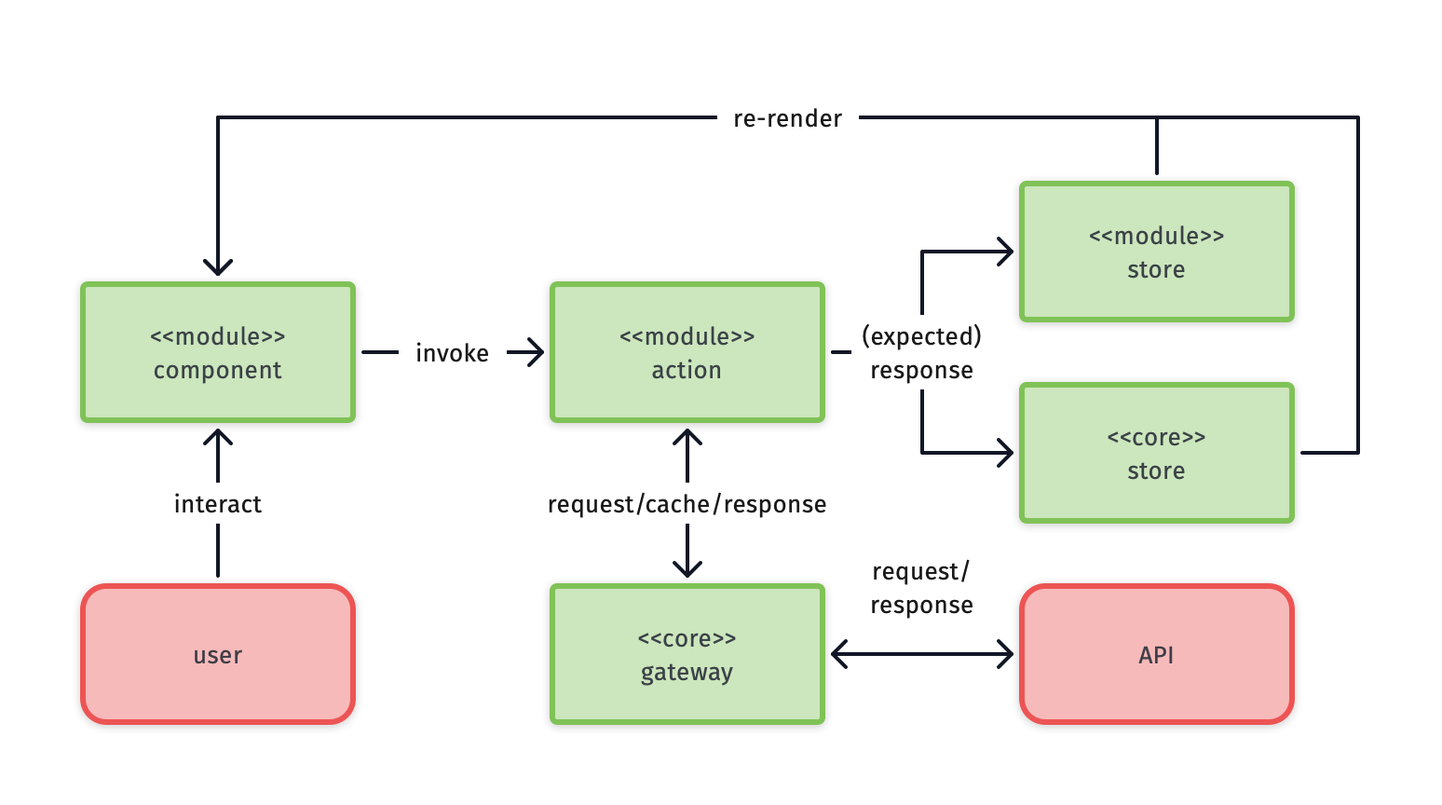
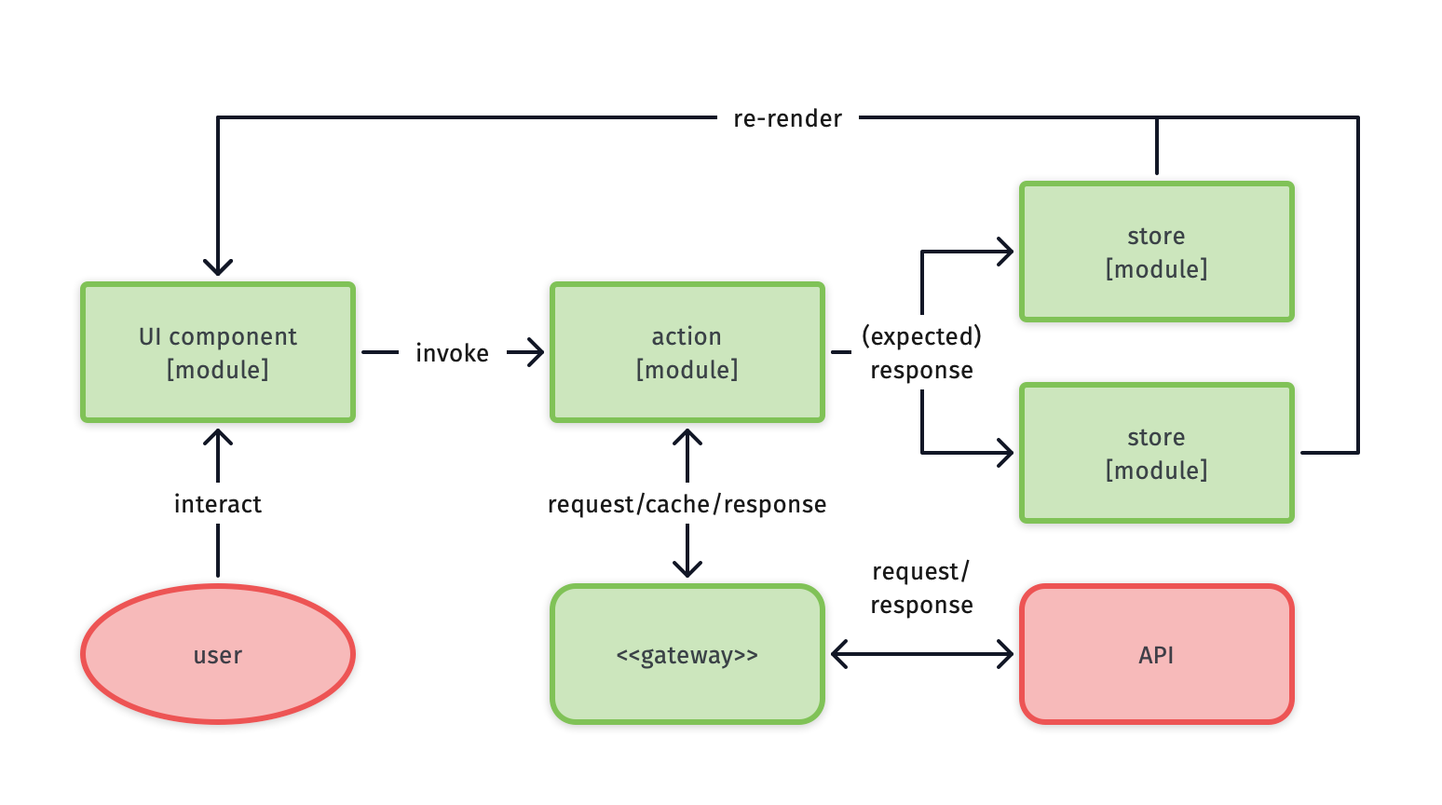
updated the reference architecture to V2.0.0

diff --git a/README.md b/README.md
@@ -1,8 +1,8 @@
 # Front-end reference architecture
 
-##### _version 1.0.0_
+##### _version 2.0.0_
 
-**Author(s)**: Kevin Pennekamp | front-end architect | [kevtiq.dev](https://kevtiq.dev) | <hello@kevtiq.dev>
+**Author(s)**: Kevin Pennekamp | front-end architect | [vycke.dev](https://vycke.dev) | <hello@vycke.dev>
 
 This document describes a reactive reference architecture for front-end applications (e.g. single-page applications) on a digital enterprise scale. It offers framework-agnostic best practices focused on the architecture behind the user interface.
 
@@ -10,84 +10,87 @@ This document describes a reactive reference architecture for front-end applicat
 
 The goal of the architecture is to enable engineers to create large-scale applications. These applications have many users, external connections, and long development time. To achieve control over the business outcomes, it requires an [antifragile](https://www.sciencedirect.com/science/article/pii/S1877050916302290) architecture. There are three key principles:
 
-- **Resilience**, to ensure stable user experience that can be measured, by applying safeguards in the application's core.
+- **Resilience**, to ensure a stable and measurable user experience.
 - A **reactive** application that updates based on (user interaction).
-- **Composability** in core elements and user interface components to enable development _agility_, resulting in a _scalable_ and _maintainable_ solution with a _consistent_ user experience.
+- **Composability** that enable development _agility_, resulting in a _scalable_ and _maintainable_ solution with a _consistent_ user experience.
 
-The architecture goes three levels deeps. The legend below describes the meaning of the different visualizations in this document.
+The architecture uses the [C4 architecture](https://c4model.com) notation. The legend below describes the meaning of the different visualizations in this document.
 
-![](images/architecture-legend.png)
+/images/c4-architecture-legend.png
 
-## High-level overview
+## System context and container overview
 
-The main idea behind the reference architecture is to implement [domain driven development](https://martinfowler.com/bliki/BoundedContext.html). A [layered architecture](https://en.wikipedia.org/wiki/Multitier_architecture) facilitates this by introducing three layers:
+The main idea behind the reference architecture is to implement [domain driven development](https://martinfowler.com/bliki/BoundedContext.html). A [layered architecture](https://en.wikipedia.org/wiki/Multitier_architecture) facilitates this by introducing three containers:
 
 - The **router** is part of the presentation layer. This layer determines which modules the user can interact with.
-- The **modules** layer represents the presentation layer, but also the business layer. Most of the work will be in this layer. A module, or [cell](https://github.com/wso2/reference-architecture/blob/master/reference-architecture-cell-based.md), represents a part of the business.
+- Each application consists out of many **module** (or [cell](https://github.com/wso2/reference-architecture/blob/master/reference-architecture-cell-based.md)) containers. These represent the presentation layer, but also the business layer. Most of the work will be in these containers. A module represents a part of the business.
 - The **core** layer represents the application and data access layer.
 
-![](images/architecture-high-level.png)
+/images/c4-architecture-level-2.png
 
-## Application core
+## The core container
 
-The core layer centralizes critical _blocks_, as visualized below. This centralization contributes to resilience of the application. The blocks below can be present in the core layer.
+The core container centralizes critical _components_, as visualized below. This centralization contributes to the resilience of the application. Combined, there are three important component _groups_ that can be identified in the core container: a **store**, **pub/sub**, and **gateway**.
 
-- An application **store** that holds data impacting how the application behaves towards users.i
-- A **gateway** handling all outgoing communication towards many external sources.
-- The **[pub/sub](https://en.wikipedia.org/wiki/Publish%E2%80%93subscribe_pattern)** synchronizes other elements in the core layer. The presentation layer can use to update. Besides, it allows for cross-browser tab synchronization.
-- A **process manager** mediates and prioritizes heavy background operations (i.e. web-workers) to increase the performance of the web application.
+/images/c4-architecture-level-3-core.png
 
-![](images/architecture-core.png)
+Besides these components, several other components can live in the core container. Examples are the browser **history** stack, an **error tracker** or a **process manager** mediates and prioritizes heavy background operations (i.e. web-workers) to increase the performance of the web application.
 
-Besides these blocks, several other blocks can live in the core layer. Examples are the browser **history** stack and an **error tracker**.
-
-### Application store
+### Core container: store
 
 Large applications use the store for global state management. The recommendation is that the store follows the patterns around [event sourcing](https://martinfowler.com/eaaDev/EventSourcing.html). This means that the store should be:
 
 - It stores data in a **centralized** and normalizes the data, i.e. nesting of relational data is not allowed.
 - It is the owner of the data shape and mutations to increase resilience, i.e. it is **event-driven** and **immutable**.
 
-To follow the principles of this architecture, it uses an **access layer**. This _element_ decouples the state interface, allowing for better composability. Store events (`get`, `set`, `update`, or `remove`) can be defined and invoked on a module-level. The access layer handles these events and applies them to the **data storage**.
+To follow the principles of this architecture, it uses an **access layer**. This _component_ decouples the state interface, allowing for better composability. Store events (`get`, `set`, `update`, or `remove`) can be defined and invoked on a module-level. The access layer handles these events and applies them to the **data storage**, as visualized in the _dynamic diagram_ shown below.
 
-![](images/architecture-core-store.png)
+/images/c4-architecture-dynamic-diagram-store.png
 
 > **NOTE**: many front-end applications use global state management for all data. Many existing global state management packages like [Redux](https://redux.js.org/style-guide/style-guide) have a coupled state interface. Although events are defined elsewhere, they have to be configured in the store.
 
-Whenever an element triggers an event, the data is changed. The access layer sends an event (including the changed data) via the pub/sub (except in case of a `get` event). Other elements can subscribe to these events and act whenever the data changes. Normalized data allows for more accurate updates events to the user subscribers.
+Whenever a component triggers an event, the data is changed. The access layer sends an event (including the changed data) via the pub/sub (except in case of a `get` event). Other components can subscribe to these events and act whenever the data changes. The access layer can also subscribe to the pub/sub. This enables another way for the store to update (e.g. when requests come from a different browser tab).
 
-### API gateway
+Data in the data storage is normalized or shaped like a [Statecharts](https://statecharts.github.io/). This allows for more accurate update events to the subscribers.
+
+### Core container: pub/sub
+The [pub/sub](https://en.wikipedia.org/wiki/Publish%E2%80%93subscribe_pattern) adds the ability to synchronize other containers/components on asynchronous tasks. It can update the presentation layer (e.g. UI components in modules) based on updates in the _store_. Another example is to use it for background tasks like synchronization between browser tabs, or resetting an auto-sign out timer.
+
+### Core container: API gateway
 
 > **NOTE**: in case of only one external source, a single API client can replace the gateway. Many open-source API clients support a similar structure (e.g. [Apollo Client](https://www.apollographql.com/client/)).
 
-The API gateway enables a consistent way to connect various external sources (e.g. REST and GraphQL). A [**mediator**](https://en.wikipedia.org/wiki/Mediator_pattern) allows for sharing of generic elements with different **clients**.
+The API gateway enables a consistent way to connect various external sources or APIs (e.g. REST and GraphQL). The *gateway*, *middleware*, and *client* components act as the API gateway. Each external source has its own corresponding **client** component. This component sends out the actual request. Each client has a chain of **middleware**, that enhances each request (e.g. add authentication information).
 
-![](images/architecture-core-gateway.png)
+/images/c4-architecture-dynamic-diagram-gateway.png
 
-Each request, regardless of the related external source, goes through the mediator. The mediator sends each request through three _elements_ before it hits the API client:
+Each request, regardless of the related external source, first goes through the gateway. The gateway is a [**mediator**](https://en.wikipedia.org/wiki/Mediator_pattern) allows for the sharing of generic logic between different clients of different external sources. This mediator handles:
 
-- The **cache** is a proxy that stores all responses, for a certain period ('state-while-revalidate' pattern). The mediator acts as the _data access layer_ of the cache, as the application store.
-- A [**circuit breaker**](https://en.wikipedia.org/wiki/Circuit_breaker_design_pattern) maintains the state of the external source. If it receives a server error, it bounces outgoing requests to prevent reoccurring failure. It can be seen as a first link in the chain of middleware.
-- A chain of **middleware** enhances each request (e.g. the refreshing of authentication information). The middleware has access to the application store and the pub/sub.
+- Bouncing requests based on [RBAC rules](#application-governance).
+- Interact with a cache, by getting and setting data. In most cases, this is the application store, but sometimes a separate proxy cache is used. The gateway sets the lifespan of the cached data, using 'state-while-revalidate' pattern.
+- [**circuit breaking**](https://en.wikipedia.org/wiki/Circuit_breaker_design_pattern) to ensure only external APIs are called when they are available. If it receives a server error, it bounces future outgoing requests for a limited time, allowing the API to restart itself.
+- Implement logic for authentication information refreshing. If a refresh request is in flight, it queues all other requests until the refresh request is finished.
+- Send requests to the correct middleware and client.
 
-The mediator sends the request to the correct client after the middleware. With a `cache-network` strategy, a cached value is provided first. When the mediator receives the response, it sends it to the request initiator and the cache.
+If a request has a `cache-network` strategy, a cached value from the store is provided first. When the gateway receives the response, it sends the updated data to the request initiator and the cache.
 
 > **NOTE**: in case your chosen UI framework does not allow of UI updates around asynchronous calls, you can let the element subscribe to the pub/sub and have the mediator send the response via the pub/sub. you can use the pub/sub.
 
-To ensure resilience, each request should follow the same [statechart](https://statecharts.github.io/), as shown below. When all requests, regardless of their source, follow the same pattern, the API client and/or UI can consistently handle them. Each request starts in _idle_. A request can either start or be scheduled. Both from _idle_ and _scheduled_ the request can start. It now moves into the _loading_ state. From this state, four events can happen: success, abort, error, or start. In the latter's case, the previous request is aborted, and a new request is started.
+To ensure resilience, each request should follow the same [statechart](https://statecharts.github.io/), as shown below. When all requests, regardless of their source, follow the same pattern, the API client and/or UI can handle them. Each request starts in _idle_. A request can either start or be scheduled. Both from _idle_ and _scheduled_ the request can start. It now moves into the _loading_ state. From this state, four events can happen: success, abort, error, or start. In the latter's case, the previous request is aborted, and a new request is started.
 
-![](images/architecture-core-gateway-statechart.png)
+/images/gateway-statechart.png
 
-## Modules
+## Module containers
 
-Modules facilitate the concept of [domain driven development](https://martinfowler.com/bliki/BoundedContext.html). They implement the [flux pattern](https://facebook.github.io/flux/docs/in-depth-overview/) to arrange business-related logic, state, and UI components. It includes several _blocks_, as visualized below. Each module has **components** and **actions**. They represent the view and the logic of a (business-related) module. Both can interact with the application core. Components can read from the core, while actions can invoke events in the core and wait for a response.
-![](images/architecture-module.png)
+Modules represent the concept of [domain driven development](https://martinfowler.com/bliki/BoundedContext.html). They implement the [flux pattern](https://facebook.github.io/flux/docs/in-depth-overview/) to arrange business-related logic, state, and UI components. It includes several _components_, as visualized below. Each module has **UI components** and **actions**. They represent the view and the logic of a (business-related) module. Both can interact with the application core. UI components can read from the core, while actions can invoke events in the core and wait for a response.
 
-A module can also have a store. It acts similar to the application store. The store in a module is often used for modeling business logic. It is recommended to follow the described [UI performance principles](#ui-performance-principles).
+/images/c4-architecture-level-3-module.png
 
-> **NOTE**: the store can be implemented in the same way as the application store, or use features from a framework (e.g. React Context).
+A module can also have a store. It acts the same as the application store. The store in a module is often used for modeling business logic. It is recommended to follow the described [UI performance principles](#ui-performance-principles).
 
-Components, actions, and a store are common for most modules. But some modules need other blocks.
+> **NOTE**: the store can be implemented in the same way as the store in the core container, or use features from a framework (e.g. React Context).
+
+UI components, actions, and a store are common for most modules. But some modules need other _components_.
 
 - A gateway or section module requires a **router**. It determines which **page** or module the user can interact with.
 - A route always associates with a module or a **page**. A page is a specialized component.
@@ -104,48 +107,48 @@ There are three different modules identified in this reference architecture. Nes
 
 ### User interface components
 
-User interface (UI) components are the most important parts of the application. It requires the most development time. It is where the user sees and interacts with the application. There are three different different types of components.
+User interface (UI) components are the most important parts of the application. It requires the most development time. It is where the user sees and interacts with the application. There are three different component types.
 
-- **Layout** components are used for positioning of content (e.g. a Stack component) and are generally stylingless by default (e.g. no background color). As no business logic is present in these components, they live outside of the modules (e.g. inside a design system).
-- **Interaction** components are generic components that allow the user to interact with the application (buttons, links, form elements, etc.). Similar to layout components they are stylingless by default, exist outside of the modules (e.g. inside a design system).
-- **Content** components hold the user interface around business logic. These components live within the modules and use layout components internally. The consist of five different elements that interact with each other.
+- **Layout** components are used for positioning of content (e.g. a Stack component) and are (generally) without styling by default (e.g. no background color). As no business logic is present in these components, they live outside of the modules (e.g. inside a design system).
+- **Interaction** components are generic components that allow the user to interact with the application (buttons, links, form elements, etc.). Similar to layout components they are without styling by default, exist outside of the modules (e.g. inside a design system).
+- **Content** components hold the user interface around the business logic. These components live within the modules and use layout components. They comprise out of five different elements that interact with each other.
 
-![](images/architecture-component.png)
+/images/c4-architecture-level-4-component.png
 
 The API is how a component interacts with its parent, another UI component. The parent component can provide values, configuration, and callbacks through the API. The values and configuration are, combined with the component state, used to render the UI.
 
 A user interacts with the UI. This interaction invokes an action. A component can use an action from the module or define the action itself. The action can update the component state or invoke a callback received through the API. The observer of a component listens to the values from the API and the state for changes. When a change happens, it invokes a re-render of the UI and invokes an action.
 
-> **NOTE**: modern UI frameworks like React and Vue handle the described observer internally. React handles re-renders of the UI, while the lifecycles methods (e.g. `useEffect`) handle invoking actions.
+> **NOTE**: modern UI frameworks like React and Vue handle the described observer. React handles re-renders of the UI, while the life-cycles methods (e.g. `useEffect`) handle invoking actions.
 
 ## UI performance principles
 
-Users expect modern web applications to be performant. Several principles are facilitated by the reference architecture to increase the _perceived_ performance. These principles describe the _where_, _when_ and _how_ of UI state management.
+Users expect modern web applications to be high performing. Several principles are facilitated by the reference architecture to increase the _perceived_ performance. These principles describe the _where_, _when_, and _how_ of UI state management.
 
-- **[Colocation](https://kentcdodds.com/blog/state-colocation-will-make-your-react-app-faster/) (where)**: UI state should live next to the UI code where possible (component, module or application level). State updates will result in less re-renders (of parts) of the UI.
-- **[Data flow](https://overreacted.io/writing-resilient-components/#principle-1-dont-stop-the-data-flow) (where)**: state that lives on a higher level should not be put in the state on a lower level. This breaks the data flow of the observer in the [component architecture](#user-interface-components).
-- **[Optimistic UI](https://www.smashingmagazine.com/2016/11/true-lies-of-optimistic-user-interfaces/) (when)**: the expected result of asynchronous or heavy tasks are stored in the state, before the actual task is finished and its result is received. This is detailed in the diagram below.
-- **Transactions (how)**: when many state mutations are required, they should be combined in a single transaction (e.g. in the [application store](#application-store)).
+- **[Colocation](https://kentcdodds.com/blog/state-colocation-will-make-your-react-app-faster/) (where)**: UI state should live next to the UI code where possible (component, module or application level). State updates will cause fewer re-renders (of parts) of the UI.
+- **[Data flow](https://overreacted.io/writing-resilient-components/#principle-1-dont-stop-the-data-flow) (where)**: the state that lives on a higher level should not be put in the state on a lower level. This breaks the data flow of the observer in the [component architecture](#user-interface-components).
+- **[Optimistic UI](https://www.smashingmagazine.com/2016/11/true-lies-of-optimistic-user-interfaces/) (when)**: store the expected result of asynchronous or heavy tasks in the state before the actual task is finished. This is detailed in the diagram below.
+- **Transactions (how)**: avoid many state mutations at the same time should by combining them in a transaction.
 - **[Statecharts](https://statecharts.github.io/) (how)**: UI state should be modeled as a statechart as much as possible, to improve the resilience of the UI.
 
 ![](images/optimistic-ui.png)
 
-Next to these principles, **prefetching** of data (where possible) results in better performance. When using _gateway_ or _section_ modules, different pages need different data. When entering a page (e.g. detail page), data for other pages can already be prefetched and put in the application/module store (e.g. for an overview page). Depending on the entry page and what exists in the store(s), different data is prefetched.
+Next to these principles, **pre-fetching** of data (where possible) results in better performance. When using _gateway_ or _section_ modules, different pages need different data. When entering a page (e.g. detail page), data for other pages can already be pre-fetched and put in the application/module store (e.g. for an overview page). Depending on the entry page and what exists in the store(s), different data is pre-fetched.
 
 ## Application governance
 
-Governance in applications is vital for digital enterprises. It refers to the ongoing process of managing, monitoring, and auditing the use of the application. Several forms of governance are supported in this reference architecture. First of all it allows for
+Governance in applications is vital for digital enterprises. It refers to the ongoing process of managing, monitoring, and auditing the use of the application. This reference architecture supports several forms of governance.
 
-Role-based access management (RBAC) is the most straight forward auditing implementation for digital enterprises. This reference architecture facilitates several possibilities in the UI that can be applied.
+Role-based access management (RBAC) is the most straight forward auditing implementation. This reference architecture facilitates several possibilities in the UI that can be applied.
 
-- As the _router_ is the main entry-point of the application, the initial RBAC implementation needs to happen on this level.
+- As the _router_ is the main entry point of the application, the initial RBAC implementation needs to happen on this level.
 - Each _module router_ can apply the same level of RBAC implementation. This allows for complex, nested access rules based on the URL of the application.
-- RBAC can be applied inside a component (e.g. `return null` in case the user is not allowed to view the component) or in parent components by applying _conditional visibility_.
+- RBAC can be applied inside a UI component or in parent UI components with _conditional visibility_.
 - It is possible to add RBAC rules to the actions in _modules_ and _components_.
 - RBAC can be added to the _middleware_ of the _API gateway_.
 
 ![](images/rbac.png)
 
-As JavaScript is an unsafe language by default (any user can alter it in the browser). So blocking rendering of the UI is not enough. When applied properly, _actions_ in modules and components can also be guarded based on the RBAC rules. Lastly, RBAC can be applied in the _middleware_ of the _API gateway_, to disallow connectivity to external sources completely.
+Blocking the rendering of the UI is not enough. When applied, _actions_ in modules and components can implement the RBAC rules. 
 
-But governance is not all about auditing and security. Monitoring is equally important. Monitoring ensures more information, i.e. context, is stored and maintained on defects. The _event-driven_ nature of this reference architecture makes it possible to create this context. When implementing a system tracker, logging all pub/sub, API, navigation and store events creates this context.
+But governance is not all about auditing and security. Monitoring ensures more information, i.e. context, is available on defects. One can log all pub/sub, AP, navigation and store events. 

diff --git a/CHANGELOG.md b/CHANGELOG.md
@@ -1,41 +1,21 @@
 # CHANGE LOG
 
-## Version 0.7.0
+## Version 2.0.0
+Converted the reference architecture and all its diagrams to the [C4 model](https://c4model.com). This has some breaking changes:
 
-- Added a section around application governance (security and error handling).
-- Changed request statechart to add a 'scheduled' state
+- Combined components from the store and API gateway in a higher level, into to level 3 core container;
+- Added "dynamic diagrams" for the store and API gateway;
+- Added separate section for the pub/sub;
+- Removed some elements/components from the API gateway (the circuit breaker) as these are handled now by the gateway component and store container respectively. In addition, the link between the middleware and the pub/sub is removed, as this is now also handled by the gateway component.
 
-## Version 0.6.1
-- Small textual changes
 
-## Version 0.6.0
+## Version 1.0.0
+Initial and complete version of the reference architecture, including:
 
-- Added interaction component next to layout and content components;
-- Added a section around optimistic UI
+- High level overview;
+- Detailed views of the application core, and on lower level the store and API gateway;
+- Module architecture;
+- Component architecture;
+- Application goverance.
 
-## Version 0.5.0
 
-- Added a better example around components for the `observer`
-- Added that the circuitbreaker can be seen as the first link in the chain of middleware.
-- Updated the goals of the reference architecture
-- Added types of components
-
-## Version 0.4.1
-
-- Spell-checked
-
-## Version 0.4.0
-
-- Added module architecture & domain driven design example
-- Added the link between the data access layer of the application store and the mediator in the gateway
-
-## Version 0.3.0
-
-- Added the request statechart, including explanation, in the API gateway section;
-- Updated legend to reflect the diagrams a bit better;
-- Added component architecture;
-- Added module architecture.
-
-## Version 0.2.1
-
-- Updated the diagram and text in the 'API gateway' section. The client does not send an event via the pub/sub, as UI components can update UI state around async code themselves, so the do not need an observer pattern. In addition, a link between the store and the pub/sub is added to complete the section around the middleware.
